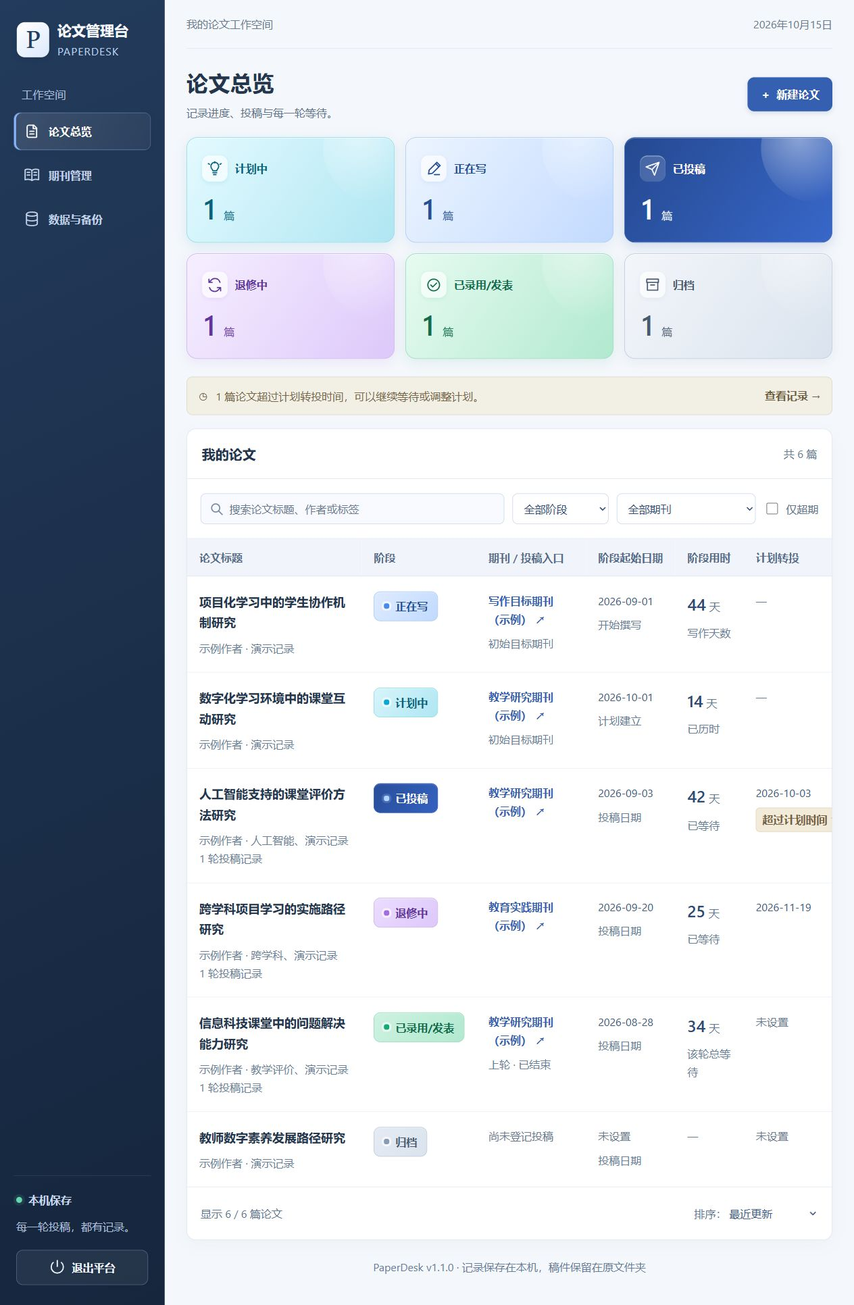
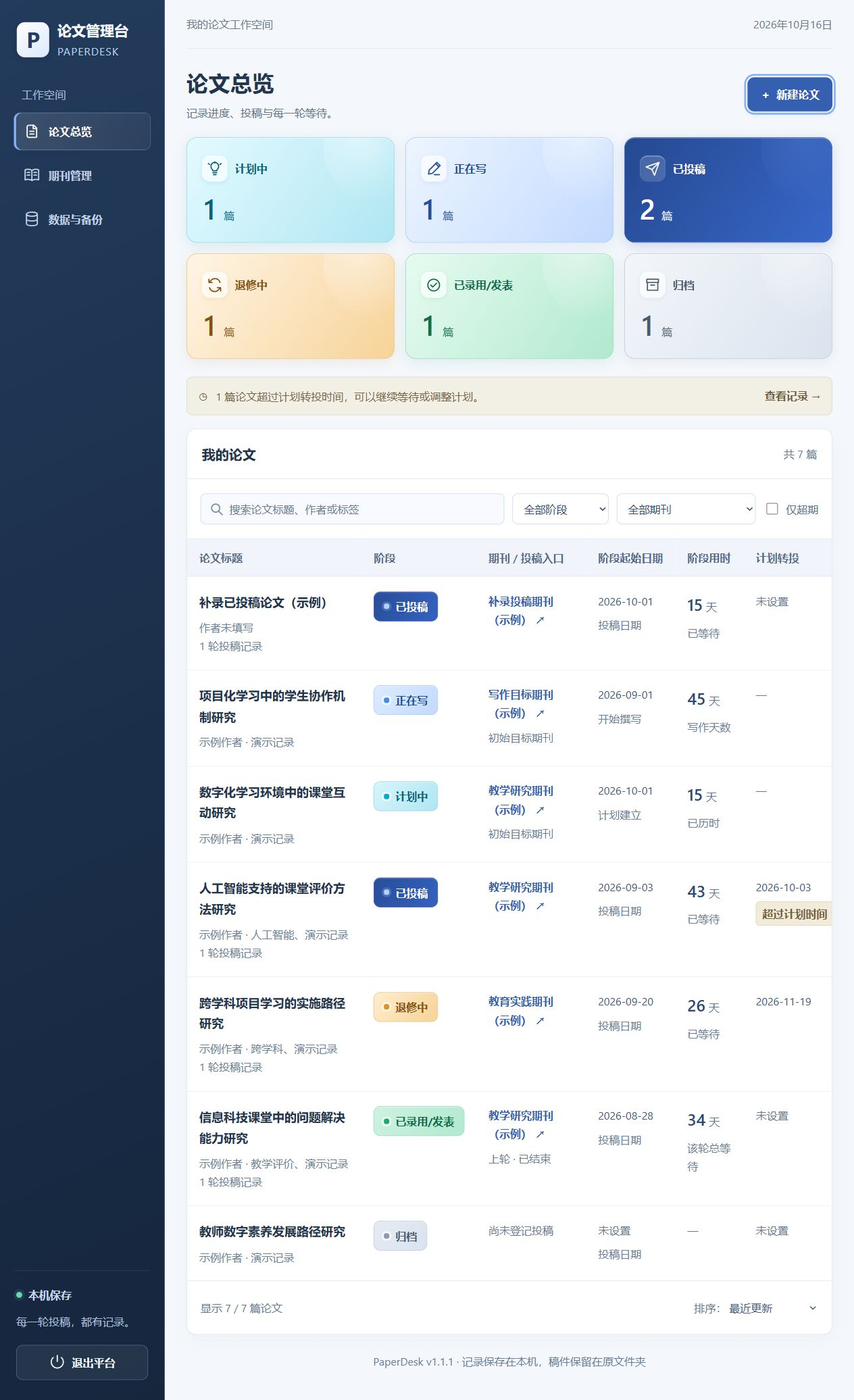
Fix direct entry of submitted papers and refine status styling

diff --git a/web/app.js b/web/app.js
@@ -192,14 +192,15 @@ function fileEditRow(f={}) {return `<div class="file-edit-row" data-file-row><di
 async function paperForm(id) {
   const p=id?await api(`/api/papers/${id}`):{title:'',authors:'',tags:'',stage:'writing',notes:'',folder:'',planned_on:null,writing_started_on:state.today,target_journal_id:null,files:[],submissions:[]};
   const active=p.submissions.some(r=>!r.ended_on);
-  const allowed=active?['submitted','revision','archived']:['planned','writing','accepted','archived'];
+  const allowed=!id?Object.keys(stages):active?['submitted','revision','archived']:['planned','writing','accepted','archived'];
   showDrawer(drawerHeader(id?'编辑论文':'新建论文',id?'论文信息':'从一篇论文开始')+`<div class="drawer-body"><form id="paper-form"><div id="form-error" class="form-error" hidden></div>
     <div class="form-field"><label for="p-title">论文标题 <span class="required">*</span></label><input id="p-title" required maxlength="500" placeholder="填写论文标题" value="${esc(p.title)}"></div>
     <div class="form-grid"><div class="form-field"><label for="p-authors">作者</label><input id="p-authors" maxlength="1000" placeholder="作者姓名" value="${esc(p.authors)}"></div><div class="form-field"><label for="p-stage">论文阶段</label><select id="p-stage">${Object.entries(stages).map(([k,v])=>`<option value="${k}" ${p.stage===k?'selected':''} ${!allowed.includes(k)?'disabled':''}>${v}</option>`).join('')}</select></div></div>
-    <p class="field-help">${active?'当前有进行中的投稿。录用或退稿时，请在投稿历史中“结束本轮”。':'登记投稿后，阶段会自动变为“已投稿”。'}</p>
-    <div class="form-field"><label for="p-target-journal">初始目标期刊</label><select id="p-target-journal" class="journal-select">${journalOptions(p.target_journal_id,'暂不设置')}</select><small>最初计划投稿的期刊，独立于每轮投稿和转投候选，可随时修改。</small></div>
+    <p id="p-stage-help" class="field-help">${active?'当前有进行中的投稿。录用或退稿时，请在投稿历史中“结束本轮”。':id?'登记投稿后，阶段会自动变为“已投稿”。':'之前已经投稿的论文，可以直接选择“已投稿”或“退修中”，填写原投稿信息。'}</p>
+    ${!id?`<section id="p-initial-submission" class="initial-submission" hidden><div class="section-heading">当前投稿</div><div class="form-field"><label for="p-submission-journal">投稿期刊 <span class="required">*</span></label><select id="p-submission-journal" class="journal-select">${journalOptions()}</select><small>没有找到期刊？可在下方快速新增。</small></div><div class="form-grid"><div class="form-field"><label for="p-submitted-on">原投稿日期 <span class="required">*</span></label><input id="p-submitted-on" type="date" max="${state.today}" value="${state.today}"></div><div class="form-field"><label for="p-manuscript-number">稿件编号</label><input id="p-manuscript-number" maxlength="200" placeholder="选填"></div></div><div class="form-field"><label for="p-submission-progress">当前进展</label><input id="p-submission-progress" maxlength="1000" placeholder="例如：外审中、已收到修改意见"></div><p class="field-help">按原投稿日期计算等待天数。保存后可在投稿历史中设置转投计划、补录更早的轮次。</p></section>`:''}
+    <div id="p-target-field" class="form-field"><label for="p-target-journal">初始目标期刊</label><select id="p-target-journal" class="journal-select">${journalOptions(p.target_journal_id,'暂不设置')}</select><small>最初计划投稿的期刊，独立于每轮投稿和转投候选，可随时修改。</small></div>
     ${quickJournalForm('p-target-journal')}
-    <div class="form-grid"><div class="form-field"><label for="p-planned-on">计划建立日期</label><input id="p-planned-on" type="date" max="${state.today}" value="${esc(p.planned_on||'')}"></div><div class="form-field"><label for="p-writing-on">开始撰写日期</label><input id="p-writing-on" type="date" max="${state.today}" value="${esc(p.writing_started_on||'')}"></div></div><p class="field-help">从对应日期开始计时，当天为第 0 天；可以补填或留空。</p>
+    <div id="p-stage-dates"><div class="form-grid"><div class="form-field"><label for="p-planned-on">计划建立日期</label><input id="p-planned-on" type="date" max="${state.today}" value="${esc(p.planned_on||'')}"></div><div class="form-field"><label for="p-writing-on">开始撰写日期</label><input id="p-writing-on" type="date" max="${state.today}" value="${esc(p.writing_started_on||'')}"></div></div><p class="field-help">从对应日期开始计时，当天为第 0 天；可以补填或留空。</p></div>
     <div class="form-field"><label for="p-tags">标签</label><input id="p-tags" maxlength="1000" placeholder="例如：人工智能、跨学科、教学设计" value="${esc(p.tags)}"></div>
     <div class="form-field"><label for="p-notes">备注</label><textarea id="p-notes" maxlength="10000" placeholder="写作思路、修改安排或刊出信息…">${esc(p.notes)}</textarea></div>
     <div class="section-heading">本地文件关联</div><div class="form-field"><label for="p-folder">论文文件夹</label><div class="inline-input"><input id="p-folder" maxlength="4000" placeholder="粘贴完整路径，或选择文件夹" value="${esc(p.folder)}"><button class="button secondary small" type="button" data-action="pick-folder">选择</button></div></div>
@@ -207,11 +208,24 @@ async function paperForm(id) {
     ${id?`<div class="section-heading">记录管理</div><p class="field-help">暂时不需要的论文可以设为归档，所有历史继续保留。</p><button class="button danger small" type="button" data-action="delete-paper" data-id="${id}">删除论文及投稿记录</button>`:''}
     </form></div>`+formActions('paper-form'),{kind:'paper-form',paperId:id||null});
   $('paper-form').addEventListener('submit',savePaper);
+  let automaticWritingDate=!id;
+  $('p-writing-on').addEventListener('input',()=>{automaticWritingDate=false;});
+  const syncInitialSubmission=()=>{
+    if(id)return;
+    const direct=['submitted','revision'].includes($('p-stage').value);
+    $('p-initial-submission').hidden=!direct;
+    $('p-target-field').hidden=direct;$('p-stage-dates').hidden=direct;
+    for(const key of ['p-submission-journal','p-submitted-on']){$(key).required=direct;$(key).disabled=!direct;}
+    document.querySelector('[data-action="quick-journal"]').dataset.target=direct?'p-submission-journal':'p-target-journal';
+    if(direct&&!$('p-submission-journal').value)$('p-submission-journal').value=$('p-target-journal').value;
+    if($('p-stage').value!=='writing'&&automaticWritingDate)$('p-writing-on').value='';
+  };
   $('p-stage').addEventListener('change',()=>{
     if($('p-stage').value==='planned'&&!$('p-planned-on').value)$('p-planned-on').value=state.today;
     if($('p-stage').value==='writing'&&!$('p-writing-on').value)$('p-writing-on').value=state.today;
-    if(!id&&$('p-stage').value==='planned'&&$('p-writing-on').value===state.today)$('p-writing-on').value='';
+    syncInitialSubmission();
   });
+  syncInitialSubmission();
 }
 
 async function savePaper(event) {
@@ -224,6 +238,7 @@ async function savePaper(event) {
       target_journal_id:$('p-target-journal').value?Number($('p-target-journal').value):null,planned_on:$('p-planned-on').value||null,writing_started_on:$('p-writing-on').value||null,
       files:[...document.querySelectorAll('[data-file-row]')].map(row=>({label:row.querySelector('.file-label').value,path:row.querySelector('.file-path').value}))};
     const id=drawerInfo.paperId;
+    if(!id&&['submitted','revision'].includes(data.stage))data.initial_submission={journal_id:Number($('p-submission-journal').value),submitted_on:$('p-submitted-on').value,manuscript_number:$('p-manuscript-number').value,progress:$('p-submission-progress').value,transfer_mode:'none',candidate_ids:[]};
     const saved=await api(id?`/api/papers/${id}`:'/api/papers',id?'PUT':'POST',data);
     drawerDirty=false;
     await refresh();

diff --git a/web/style.css b/web/style.css
@@ -17,7 +17,7 @@ button:focus-visible,a:focus-visible,input:focus-visible,select:focus-visible,te
 .icon,.nav-icon,.quit-icon{display:inline-block;width:24px;height:24px;flex:none;vertical-align:middle}
 .sidebar{position:fixed;inset:0 auto 0 0;width:244px;background:linear-gradient(155deg,#233b5c 0%,#1b2e49 55%,#15263d 100%);border-right:1px solid #192c46;padding:30px 20px;display:flex;flex-direction:column;z-index:3}
 .brand{display:flex;gap:12px;align-items:center;color:#f8fbff;font-size:21px;font-weight:650;padding:0 5px;line-height:1.4}
-.brand-icon{display:grid;place-items:center;width:48px;height:52px;border:1px solid #ffffffb3;border-radius:12px;background:linear-gradient(145deg,#ffffff,#dce9fc);color:#233e64;font-family:Georgia,serif;font-size:36px;font-weight:500;box-shadow:0 4px 14px #09182f26}
+.brand-icon{display:grid;place-items:center;width:48px;height:52px;border:1px solid #ffffffb3;border-radius:12px;background:linear-gradient(145deg,#ffffff,#dce9fc);color:#233e64;font-family:inherit;font-size:32px;font-weight:700;box-shadow:0 4px 14px #09182f26}
 .brand small{display:block;color:#b9cde9;font-size:16px;letter-spacing:1px;margin-top:5px;font-weight:450}
 .nav-label{font-size:16px;color:#adbfda;letter-spacing:.5px;margin:39px 12px 14px}
 .nav-item{border:1px solid transparent;background:transparent;color:#c2d1e7;width:100%;text-align:left;padding:14px 14px;border-radius:10px;margin-bottom:9px;display:flex;align-items:center;gap:13px;font-size:16px;font-weight:550;min-height:54px;transition:background .15s,border-color .15s}
@@ -53,7 +53,7 @@ button:disabled{opacity:.5;cursor:default}
 .planned{--tone:#08627b;--tone-bg:#d7f5fb;--tone-border:#94d7e6;--card-start:#e4faff;--card-end:#afe6f2;--tone-accent:#08a9ce;--tone-shadow:#0894bd21;--marker-bg:#ffffffa6}
 .writing{--tone:#244e95;--tone-bg:#deebff;--tone-border:#a9c9f5;--card-start:#edf5ff;--card-end:#c2daff;--tone-accent:#4789ec;--tone-shadow:#377adb1a;--marker-bg:#ffffffa6}
 .submitted{--tone:#fff;--tone-bg:#3058b0;--tone-border:#345eaf;--card-start:#254990;--card-end:#3867c9;--tone-accent:#add5ff;--tone-shadow:#2853a833;--marker-bg:#ffffff26}
-.revision{--tone:#61339c;--tone-bg:#ebdcff;--tone-border:#cbb0ee;--card-start:#f6efff;--card-end:#ddc8fa;--tone-accent:#a36be0;--tone-shadow:#965ed91c;--marker-bg:#ffffffa6}
+.revision{--tone:#875012;--tone-bg:#ffedcf;--tone-border:#ecc17f;--card-start:#fff5e6;--card-end:#f7d397;--tone-accent:#dd951f;--tone-shadow:#b77a171c;--marker-bg:#ffffffa6}
 .accepted{--tone:#126b4b;--tone-bg:#cef2e1;--tone-border:#96d8bb;--card-start:#e7fbf1;--card-end:#b1e9cf;--tone-accent:#16aa78;--tone-shadow:#12976d1c;--marker-bg:#ffffffa6}
 .archived{--tone:#49596f;--tone-bg:#e5ebf3;--tone-border:#bcc9d9;--card-start:#f3f6fa;--card-end:#dae3ee;--tone-accent:#899bb2;--tone-shadow:#5f789b17;--marker-bg:#ffffffa6}
 .stats{display:grid;grid-template-columns:repeat(3,minmax(0,1fr));gap:16px;margin-bottom:26px}
@@ -67,6 +67,7 @@ button:disabled{opacity:.5;cursor:default}
 .stat strong{display:block;font-size:42px;font-weight:600;margin-top:15px;line-height:1.15;font-variant-numeric:tabular-nums;letter-spacing:-1px}
 .stat small{font-size:16px;margin-left:10px;font-weight:500;letter-spacing:0;color:inherit;opacity:.85}
 .stat.submitted{box-shadow:inset 0 1px 0 #ffffff45,0 5px 18px var(--tone-shadow)}
+.stat.submitted::after{background:radial-gradient(circle at 35% 40%,#8db9ff20,#8db9ff00 72%)}
 .stage{padding:8px 14px;border:1px solid var(--tone-border);border-radius:10px;display:inline-flex;align-items:center;justify-content:center;gap:9px;font-size:16px;font-weight:650;white-space:nowrap;min-height:44px;background:linear-gradient(130deg,var(--tone-bg),var(--card-end));color:var(--tone);box-shadow:inset 0 1px 0 #ffffff80}
 .stage::before{content:"";width:8px;height:8px;border-radius:3px;background:var(--tone-accent);box-shadow:0 0 0 3px var(--marker-bg);flex:none}
 .stage.submitted{background:linear-gradient(120deg,#284d99,#3562c0);box-shadow:inset 0 1px 0 #ffffff33}
@@ -130,6 +131,9 @@ footer{padding:25px 0 28px;font-size:16px;color:#677c98;text-align:center;line-h
 .drawer-actions{border-top:1px solid var(--line);padding:18px 28px;display:flex;gap:12px;align-items:center;background:#fafcff;flex-wrap:wrap}
 .drawer-actions .push-right{margin-left:auto}
 .form-grid{display:grid;grid-template-columns:1fr 1fr;gap:18px}
+.initial-submission{padding:18px 20px;margin:18px 0 22px;border:1px solid #c9daf5;border-radius:12px;background:#f4f8ff}
+.initial-submission .section-heading{margin:0 0 16px}.initial-submission .form-field:last-child{margin-bottom:0}
+.initial-submission>.form-grid{margin-bottom:18px}
 .form-field{display:flex;flex-direction:column;gap:9px;margin-bottom:20px}.form-grid .form-field{margin:0}
 .form-field>label{font-size:16px;color:#405977;font-weight:650}.required{color:#2c61b7}
 .form-field small,.field-help{color:#61718a;font-size:16px;line-height:1.8;display:block;margin-top:8px}

diff --git a/web/index.html b/web/index.html
@@ -24,7 +24,7 @@
   <main class="workspace">
     <div class="topbar"><span>我的论文工作空间</span><span id="today" class="date-label"></span></div>
     <div id="content" aria-live="polite"><div class="loading">正在读取本机记录…</div></div>
-    <footer>PaperDesk v1.1.0 · 记录保存在本机，稿件保留在原文件夹</footer>
+    <footer>PaperDesk v1.1.1 · 记录保存在本机，稿件保留在原文件夹</footer>
   </main>
   <div id="drawer-layer" class="drawer-layer" hidden>
     <div class="scrim" data-action="close-drawer"></div>

diff --git a/test_paperdesk.py b/test_paperdesk.py
@@ -44,6 +44,47 @@ class StoreTests(unittest.TestCase):
         self.assertEqual(self.store.paper_detail(self.paper)["title"], "测试论文")
         self.assertEqual(self.current()["candidates"][0]["id"], self.next_journal)
 
+    def test_directly_add_submitted_and_revision_papers(self):
+        for stage in ("submitted", "revision"):
+            ident = self.store.paper_save({"title": "之前已投稿", "stage": stage,
+                "target_journal_id": self.next_journal,
+                "initial_submission": self.submission(submitted_on="2026-09-01", manuscript_number="OLD-001", progress="外审中", transfer_mode="days", wait_days=60)})
+            detail = self.store.paper_detail(ident)
+            self.assertEqual(detail["stage"], stage)
+            self.assertEqual(len(detail["submissions"]), 1)
+            self.assertEqual(detail["submissions"][0]["elapsed_days"], 43)
+            self.assertEqual(detail["submissions"][0]["manuscript_number"], "OLD-001")
+            self.assertEqual(detail["submissions"][0]["target_on"], "2026-10-31")
+            self.assertEqual(detail["target_journal_id"], self.next_journal)
+            self.assertIsNone(detail["writing_started_on"])
+        exported = self.store.export()
+        self.store.close()
+        self.store = Store(Path(self.temp.name), lambda: self.day)
+        self.assertEqual(self.store.export()["data"], exported["data"])
+
+    def test_invalid_initial_submission_leaves_no_partial_paper(self):
+        before = self.store.export()["data"]
+        cases = [None, [], self.submission(journal_id=999), self.submission(submitted_on="2026-02-30"),
+                 self.submission(submitted_on="2026-10-15"), self.submission(candidate_ids=[999]),
+                 self.submission(ended_on="2026-10-14", result="rejected")]
+        for initial in cases:
+            with self.subTest(initial=initial), self.assertRaises(ValidationError):
+                self.store.paper_save({"title": "不能只存下论文", "stage": "submitted", "initial_submission": initial})
+            self.assertEqual(self.store.export()["data"], before)
+        with self.assertRaises(ValidationError):
+            self.store.paper_save({"title": "不能覆盖", "stage": "writing", "initial_submission": self.submission()}, self.paper)
+        self.assertEqual(self.store.export()["data"], before)
+
+    def test_initial_round_write_failure_rolls_back_paper_files_and_round(self):
+        before = self.store.export()["data"]
+        self.store.conn.execute("CREATE TEMP TRIGGER fail_candidate BEFORE INSERT ON candidates BEGIN SELECT RAISE(ABORT, 'simulated full disk'); END")
+        try:
+            with self.assertRaises(ValidationError):
+                self.store.paper_save({"title": "一起回滚", "stage": "submitted", "files": [{"path": str(Path(self.temp.name) / "稿件.pdf")}], "initial_submission": self.submission()})
+        finally:
+            self.store.conn.execute("DROP TRIGGER fail_candidate")
+        self.assertEqual(self.store.export()["data"], before)
+
     def test_due_today_not_overdue_next_day_is(self):
         data = self.submission(submitted_on="2026-09-14", transfer_mode="days", wait_days=30)
         ident = self.store.submission_save(self.paper, data)
@@ -336,6 +377,19 @@ class APITests(unittest.TestCase):
         self.assertEqual(self.request("/api/state", headers={"Sec-Fetch-Site": "cross-site"})[0], 403)
         self.assertEqual(self.request("/../paperdesk.py")[0], 404)
         self.assertEqual(self.store.state()["papers"], [])
+
+    def test_add_existing_submission_in_one_request(self):
+        journal = self.store.journal_save({"name": "接口期刊"})
+        headers = {"Content-Type": "application/json", "X-PaperDesk-Token": self.server.token, "Origin": self.url}
+        code, body, _ = self.request("/api/papers", "POST", {"title": "已投文章", "stage": "submitted", "initial_submission": {"journal_id": journal, "submitted_on": "2024-12-31"}}, headers)
+        self.assertEqual(code, 200)
+        ident = json.loads(body)["id"]
+        detail = self.store.paper_detail(ident)
+        self.assertEqual(detail["stage"], "submitted")
+        self.assertEqual(detail["submissions"][0]["submitted_on"], "2024-12-31")
+        code, _, _ = self.request("/api/papers", "POST", {"title": "无效日期", "stage": "submitted", "initial_submission": {"journal_id": journal, "submitted_on": "2024-02-30"}}, headers)
+        self.assertEqual(code, 400)
+        self.assertEqual(len(self.store.state()["papers"]), 1)
 
     def test_port_is_exclusive(self):
         with self.assertRaises(OSError):

diff --git a/paperdesk.py b/paperdesk.py
@@ -285,6 +285,12 @@ class Store:
                   "folder": checked_path(text_field(data, "folder", limit=4000), True)}
         if fields["stage"] not in STAGES:
             raise ValidationError("请选择有效的论文阶段。")
+        initial = data.get("initial_submission")
+        if initial is not None:
+            if record_id or fields["stage"] not in ("submitted", "revision") or not isinstance(initial, dict):
+                raise ValidationError("首轮投稿只能随新建的已投稿或退修中论文一起登记。")
+            if initial.get("ended_on") or initial.get("result"):
+                raise ValidationError("直接添加已投稿论文时，首轮投稿应为进行中。")
         for key, label in (("planned_on", "计划建立日期"), ("writing_started_on", "开始撰写日期")):
             if key in data:
                 value = data[key]
@@ -316,8 +322,8 @@ class Store:
             if record_id:
                 previous = self.require("papers", record_id)
                 active = self.conn.execute("SELECT id FROM submissions WHERE paper_id=? AND ended_on IS NULL", (record_id,)).fetchone()
-            if fields["stage"] in ("submitted", "revision") and not active:
-                raise ValidationError("请先在论文详情中登记投稿，再设置为已投稿或退修中。")
+            if fields["stage"] in ("submitted", "revision") and not active and initial is None:
+                raise ValidationError("新建已投稿论文时请填写投稿期刊与日期；已有论文请在详情中登记投稿。")
             if active and fields["stage"] not in ("submitted", "revision", "archived"):
                 raise ValidationError("请先结束当前投稿；录用时选择结果“录用”，平台会自动更新阶段。")
             for key, phase in (("planned_on", "planned"), ("writing_started_on", "writing")):
@@ -344,6 +350,10 @@ class Store:
             self.conn.execute("DELETE FROM files WHERE paper_id=?", (record_id,))
             self.conn.executemany("INSERT INTO files(paper_id,label,path) VALUES(?,?,?)",
                                   [(record_id, label, path) for label, path in normalized])
+            if initial is not None:
+                # Both records share this transaction; a failed round leaves no partial paper.
+                self._submission_action(record_id, initial)()
+                self.conn.execute("UPDATE papers SET stage=? WHERE id=?", (fields["stage"], record_id))
             return record_id
         return self.mutate(action)
 
@@ -354,6 +364,9 @@ class Store:
         self.mutate(action, "delete")
 
     def submission_save(self, paper_id, data, record_id=None):
+        return self.mutate(self._submission_action(paper_id, data, record_id))
+
+    def _submission_action(self, paper_id, data, record_id=None):
         fields = submission_fields(data, self.day_provider())
         candidates = data.get("candidate_ids", [])
         if not isinstance(candidates, list) or len(candidates) > 100:
@@ -401,7 +414,7 @@ class Store:
                     phase = "accepted" if fields["result"] == "accepted" else "writing"
             self.conn.execute("UPDATE papers SET stage=?,updated_at=? WHERE id=?", (phase, stamp, paper_id))
             return record_id
-        return self.mutate(action)
+        return action
 
     def submission_delete(self, record_id):
         def action():

diff --git a/功能验证.md b/功能验证.md
@@ -1,10 +1,10 @@
 # 功能验证结果
 
-验证日期：2026 年 10 月 15 日。环境：Windows、本机 Python 3.12、Codex 浏览器。
+验证日期：2026 年 10 月 16 日。环境：Windows、本机 Python 3.12、Codex 浏览器。
 
 ## 自动测试
 
-19 项测试全部通过。测试使用独立临时目录，没有向正式平台添加测试记录。
+23 项测试全部通过。测试使用独立临时目录，没有向正式平台添加测试记录。
 
 | 验证内容 | 结果 |
 | --- | --- |
@@ -23,6 +23,9 @@
 | 计划与写作计时：当天为 0、闰日、跨年、日期修改与留空 | 通过 |
 | 初始目标期刊独立于实际投稿和转投候选，转投及恢复后保留 | 通过 |
 | 使用 v1.0.0 源码生成的真实旧版结构与导出文件验证升级、恢复 | 通过 |
+| 直接新建已投稿、退修中论文，首轮记录、原日期、编号和阶段正确 | 通过 |
+| 首轮无效、期刊不存在、写入失败时论文、文件关联、投稿一起回滚 | 通过 |
+| 单次接口请求添加已投论文，无效日期不留下半条记录 | 通过 |
 
 ## 浏览器与启动验证
 
@@ -30,11 +33,15 @@
 
 浏览器检查中没有运行错误。界面保留中文列表、编辑侧栏和轻量超期提示。
 
-本次新增功能已在独立演示平台实际验证：计划日期 2026-10-01 显示已历时 14 天；开始撰写日期 2026-09-01 显示写作 44 天；在论文表单快速新增期刊后自动选为初始目标，保存后同时显示在详情和列表；右上角仅显示日期。旧版演示记录的空日期保持为空。
+2026-10-15 已在独立演示平台实际验证：计划日期 2026-10-01 显示已历时 14 天；开始撰写日期 2026-09-01 显示写作 44 天；在论文表单快速新增期刊后自动选为初始目标，保存后同时显示在详情和列表；右上角仅显示日期。旧版演示记录的空日期保持为空。
+
+2026-10-16 实际操作“新建论文 → 已投稿 → 快速新增期刊 → 填写原投稿日期与稿件编号 → 保存”。原投稿日期 2026-10-01 正确显示已等待 15 天，论文详情包含一轮进行中的投稿，编号和当前进展完整保留，未自动填造开始撰写日期。退修中已切换为琥珀橙，已投稿高光减弱，Logo 恢复无衬线粗体 P。
 
 海军蓝白主题已在正式页面与独立演示页面加载。右上角日期显示为“2026年10月15日”。浏览器检查确认最小可见字号为 16px；1680px 宽屏六张状态卡横排，360px 窄窗口双列排列，文字完整，页面没有额外横向溢出；长表格可在自身区域横向滚动。状态卡筛选与选中状态同步，列表、期刊页和编辑侧栏共用主题。演示截图只含人工示例数据。
 
 双击启动入口已实际运行；重复启动复用同一服务。已验证退出平台后服务关闭，并重新启动成功。本地文件选择所需的 Windows Tk 组件可用。
+
+v1.1.1 正式服务已在 8766 端口重启，升级前后完整数据的校验摘要一致。
 
 稿件打开的自动测试核对了 Windows 打开调用和缺失文件处理；没有打开或修改你的真实论文。真实期刊投稿页地址需要你填写，平台不自动获取审稿结果。
 

diff --git a/使用说明.md b/使用说明.md
@@ -2,9 +2,9 @@
 
 双击 **启动论文管理平台.cmd**，浏览器会自动打开平台。第一次打开时是空白记录，不会扫描已有论文。启动入口可以复制为桌面快捷方式；不要移动或删除其他程序文件。
 
-当前版本 **v1.1.0**，默认优先使用 **8766** 端口；被占用时自动选择后续端口。网页页脚会显示版本号。第一版 v1.0.0 保留在 GitHub 的对应标签和发布中。
+当前版本 **v1.1.1**，默认优先使用 **8766** 端口；被占用时自动选择后续端口。网页页脚会显示版本号。第一版 v1.0.0 保留在 GitHub 的对应标签和发布中。
 
-界面采用海军蓝白配色，文字最小为 16px。六种状态卡与列表标签统一使用青蓝、浅蓝、深蓝、紫色、绿色和银灰，采用渐变底色和独立图标。导航区域提供明确的“退出平台”按钮。
+界面采用海军蓝白配色，文字最小为 16px。六种状态卡与列表标签统一使用青蓝、浅蓝、深蓝、琥珀橙、绿色和银灰，采用渐变底色和独立图标。导航区域提供明确的“退出平台”按钮。
 
 升级前先退出平台，再替换程序文件并重新启动；数据库位于程序文件夹之外，不随程序替换。v1.1.0 可直接使用第一版数据库和完整 JSON 备份。
 
@@ -14,6 +14,8 @@
 2. 可以关联论文文件夹和多个稿件。使用“选择”按钮，或从资源管理器复制完整路径。平台只记录路径，不复制或读取稿件正文。
 3. 投稿后，在论文详情中点击“登记投稿”，选择期刊并填写投稿日期。没有期刊时，可直接在表单里快速新增。
 4. 投稿入口填写你平时使用的期刊投稿管理页地址；点击后在新标签页打开，仍由你登录投稿系统。
+
+**添加之前已经投稿的论文：** 点击“新建论文”，直接选择“已投稿”或“退修中”，填写“当前投稿”里的实际期刊和原投稿日期；稿件编号、当前进展可选填。点击“保存记录”会一起保存论文和首轮投稿，并从原投稿日计算等待天数。无需先建一篇“正在写”的论文。没有期刊时，使用表单内的“快速新增期刊”；转投计划和更早的轮次可在保存后的投稿历史中补充。
 
 “初始目标期刊”保存最初准备投稿的期刊，可在论文信息中设置或快速新增。计划中、正在写的列表会显示该期刊及其投稿入口。登记投稿和转投均不会覆盖初始目标；每轮实际投稿、转投候选分别保存在投稿历史中。
 

diff --git a/README.md b/README.md
@@ -18,6 +18,7 @@
 - 计划中、正在写可记录初始目标期刊，独立于实际投稿期刊和转投候选。
 - 分别记录计划建立日期、开始撰写日期，并显示对应阶段的天数。
 - 每轮投稿分别记录期刊、日期、稿件编号、反馈、结果和等待天数。
+- 已经投出的论文可直接以“已投稿”或“退修中”添加，同时登记原投稿期刊与日期。
 - 按等待天数或具体日期安排转投，保存有序候选期刊；只显示超期提示。
 - 管理期刊投稿入口，关联并打开本地稿件及文件夹。
 - 标题、作者、标签搜索，阶段与期刊筛选，按日期或等待天数排序。
@@ -41,6 +42,7 @@
 
 - [v1.0.0](https://github.com/chuiyukong/paperdesk/releases/tag/v1.0.0)：最初交付的第一版，完整保留。
 - [v1.1.0](https://github.com/chuiyukong/paperdesk/releases/tag/v1.1.0)：海军蓝白主题、六色状态模块、默认端口 8766、阶段计时、初始目标期刊、中文日期及字号和退出按钮改进。
+- [v1.1.1](https://github.com/chuiyukong/paperdesk/releases/tag/v1.1.1)：直接添加已投稿论文、退修中琥珀橙色、柔和高光及第一版 Logo 字体。
 
 当前版本写在 `VERSION` 文件中，并显示在平台页脚。
 

diff --git a/CHANGELOG.md b/CHANGELOG.md
@@ -1,5 +1,14 @@
 # 更新记录
 
+## v1.1.1 · 2026-10-16
+
+- 新建论文可直接选择“已投稿”或“退修中”，一次填写实际投稿期刊、原投稿日期、稿件编号和当前进展。
+- 论文与首轮投稿在同一事务保存，日期无效或保存失败时一起回滚；等待天数按原投稿日期计算。
+- 直接登记时支持快速新增投稿期刊，初始目标期刊仍与实际投稿独立。
+- 已投稿卡片的圆形高光改为低透明度蓝光，降低视觉干扰。
+- 退修中改用琥珀橙色，首页卡片和列表标签同步。
+- Logo 的 P 恢复第一版的无衬线字体与粗体。
+
 ## v1.1.0 · 2026-10-15
 
 - 默认优先端口由 8765 改为 8766；保留自动避让占用端口和重复启动复用。
